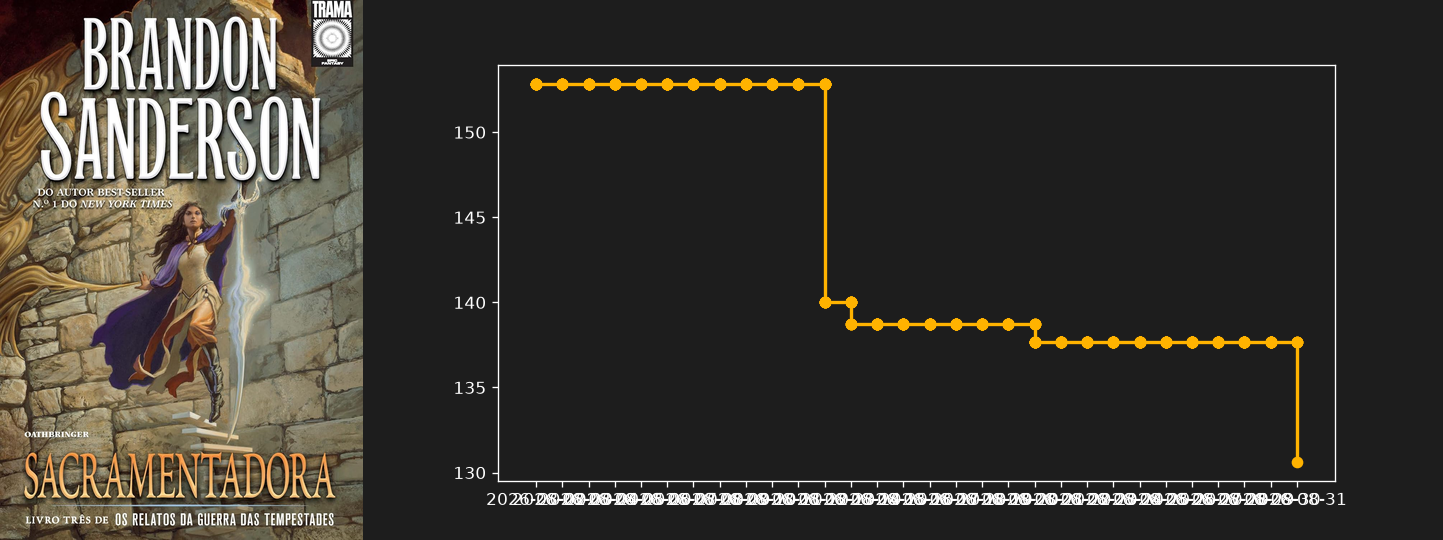
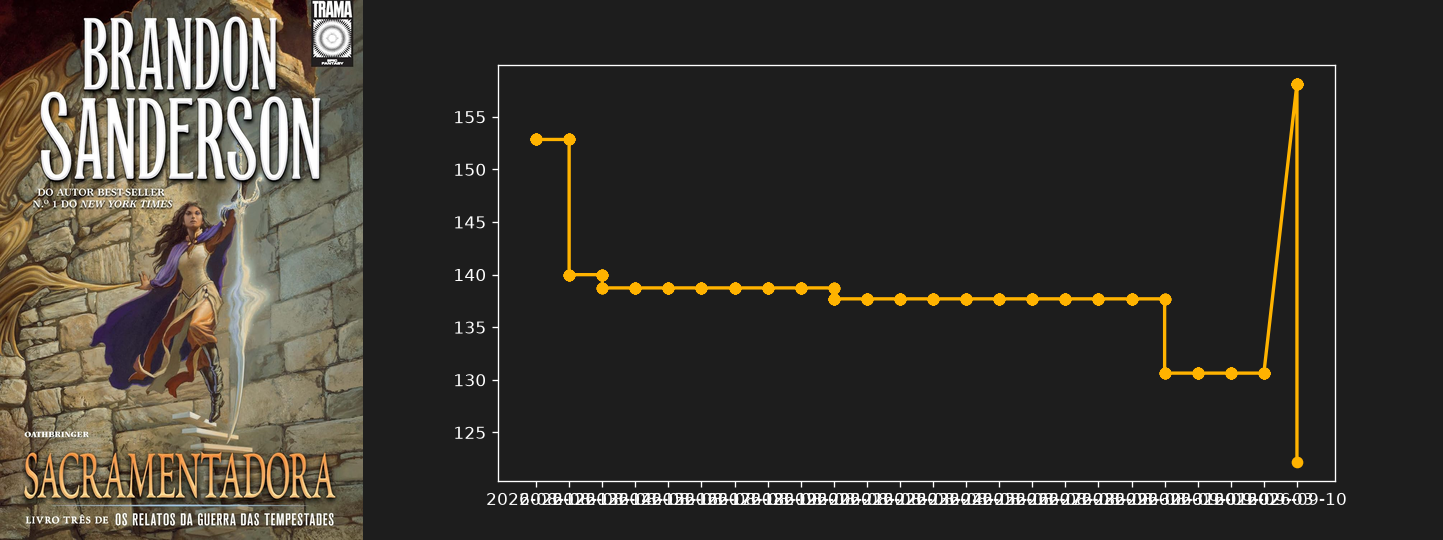
🤖 Bot Mac: Atualizando ofertas [skip ci]

diff --git a/index.html b/index.html
@@ -48,7 +48,7 @@
             <div class="flex flex-col mt-auto mb-5">
                 <div class="flex items-baseline gap-2">
                     <span class="text-2xl font-bold text-white tracking-tight">R$ 279,90</span>
-                    <span class="text-sm text-gray-500 line-through">R$ 234,20</span>
+                    <span class="text-sm text-gray-500 line-through">R$ 234,33</span>
                 </div>
             </div>
             <a href="https://link.amazon/B0bxqDHXJ" target="_blank" rel="nofollow noopener" class="w-full flex items-center justify-center gap-2 py-2.5 rounded-xl bg-white/5 hover:bg-bardo-gold hover:text-bardo-dark text-sm font-bold text-gray-200 transition-all">Comprar na Amazon</a>
@@ -68,7 +68,7 @@
             <div class="flex flex-col mt-auto mb-5">
                 <div class="flex items-baseline gap-2">
                     <span class="text-2xl font-bold text-white tracking-tight">R$ 60,58</span>
-                    <span class="text-sm text-gray-500 line-through">R$ 63,37</span>
+                    <span class="text-sm text-gray-500 line-through">R$ 63,36</span>
                 </div>
             </div>
             <a href="https://link.amazon/B05C027gt" target="_blank" rel="nofollow noopener" class="w-full flex items-center justify-center gap-2 py-2.5 rounded-xl bg-white/5 hover:bg-bardo-gold hover:text-bardo-dark text-sm font-bold text-gray-200 transition-all">Comprar na Amazon</a>
@@ -88,7 +88,7 @@
             <div class="flex flex-col mt-auto mb-5">
                 <div class="flex items-baseline gap-2">
                     <span class="text-2xl font-bold text-white tracking-tight">R$ 40,05</span>
-                    <span class="text-sm text-gray-500 line-through">R$ 46,88</span>
+                    <span class="text-sm text-gray-500 line-through">R$ 46,86</span>
                 </div>
             </div>
             <a href="https://link.amazon/B07BZ9Phr" target="_blank" rel="nofollow noopener" class="w-full flex items-center justify-center gap-2 py-2.5 rounded-xl bg-white/5 hover:bg-bardo-gold hover:text-bardo-dark text-sm font-bold text-gray-200 transition-all">Comprar na Amazon</a>
@@ -128,7 +128,7 @@
             <div class="flex flex-col mt-auto mb-5">
                 <div class="flex items-baseline gap-2">
                     <span class="text-2xl font-bold text-white tracking-tight">R$ 49,78</span>
-                    <span class="text-sm text-gray-500 line-through">R$ 47,49</span>
+                    <span class="text-sm text-gray-500 line-through">R$ 47,50</span>
                 </div>
             </div>
             <a href="https://link.amazon/B05Sr7Nr7" target="_blank" rel="nofollow noopener" class="w-full flex items-center justify-center gap-2 py-2.5 rounded-xl bg-white/5 hover:bg-bardo-gold hover:text-bardo-dark text-sm font-bold text-gray-200 transition-all">Comprar na Amazon</a>
@@ -148,7 +148,7 @@
             <div class="flex flex-col mt-auto mb-5">
                 <div class="flex items-baseline gap-2">
                     <span class="text-2xl font-bold text-white tracking-tight">R$ 140,33</span>
-                    <span class="text-sm text-gray-500 line-through">R$ 137,39</span>
+                    <span class="text-sm text-gray-500 line-through">R$ 137,40</span>
                 </div>
             </div>
             <a href="https://link.amazon/B04OFbHZF" target="_blank" rel="nofollow noopener" class="w-full flex items-center justify-center gap-2 py-2.5 rounded-xl bg-white/5 hover:bg-bardo-gold hover:text-bardo-dark text-sm font-bold text-gray-200 transition-all">Comprar na Amazon</a>
@@ -188,7 +188,7 @@
             <div class="flex flex-col mt-auto mb-5">
                 <div class="flex items-baseline gap-2">
                     <span class="text-2xl font-bold text-white tracking-tight">R$ 229,22</span>
-                    <span class="text-sm text-gray-500 line-through">R$ 225,65</span>
+                    <span class="text-sm text-gray-500 line-through">R$ 225,66</span>
                 </div>
             </div>
             <a href="https://link.amazon/B0cOS4omj" target="_blank" rel="nofollow noopener" class="w-full flex items-center justify-center gap-2 py-2.5 rounded-xl bg-white/5 hover:bg-bardo-gold hover:text-bardo-dark text-sm font-bold text-gray-200 transition-all">Comprar na Amazon</a>
@@ -208,7 +208,7 @@
             <div class="flex flex-col mt-auto mb-5">
                 <div class="flex items-baseline gap-2">
                     <span class="text-2xl font-bold text-white tracking-tight">R$ 59,36</span>
-                    <span class="text-sm text-gray-500 line-through">R$ 78,12</span>
+                    <span class="text-sm text-gray-500 line-through">R$ 78,07</span>
                 </div>
             </div>
             <a href="https://link.amazon/B0e2PzSTe" target="_blank" rel="nofollow noopener" class="w-full flex items-center justify-center gap-2 py-2.5 rounded-xl bg-white/5 hover:bg-bardo-gold hover:text-bardo-dark text-sm font-bold text-gray-200 transition-all">Comprar na Amazon</a>
@@ -228,7 +228,7 @@
             <div class="flex flex-col mt-auto mb-5">
                 <div class="flex items-baseline gap-2">
                     <span class="text-2xl font-bold text-white tracking-tight">R$ 82,94</span>
-                    <span class="text-sm text-gray-500 line-through">R$ 79,48</span>
+                    <span class="text-sm text-gray-500 line-through">R$ 79,49</span>
                 </div>
             </div>
             <a href="https://link.amazon/B01CIGwaZ" target="_blank" rel="nofollow noopener" class="w-full flex items-center justify-center gap-2 py-2.5 rounded-xl bg-white/5 hover:bg-bardo-gold hover:text-bardo-dark text-sm font-bold text-gray-200 transition-all">Comprar na Amazon</a>
@@ -248,7 +248,7 @@
             <div class="flex flex-col mt-auto mb-5">
                 <div class="flex items-baseline gap-2">
                     <span class="text-2xl font-bold text-white tracking-tight">R$ 426,83</span>
-                    <span class="text-sm text-gray-500 line-through">R$ 366,26</span>
+                    <span class="text-sm text-gray-500 line-through">R$ 366,42</span>
                 </div>
             </div>
             <a href="https://link.amazon/B0czAwuOp" target="_blank" rel="nofollow noopener" class="w-full flex items-center justify-center gap-2 py-2.5 rounded-xl bg-white/5 hover:bg-bardo-gold hover:text-bardo-dark text-sm font-bold text-gray-200 transition-all">Comprar na Amazon</a>
@@ -268,7 +268,7 @@
             <div class="flex flex-col mt-auto mb-5">
                 <div class="flex items-baseline gap-2">
                     <span class="text-2xl font-bold text-white tracking-tight">R$ 39,80</span>
-                    <span class="text-sm text-gray-500 line-through">R$ 39,68</span>
+                    <span class="text-sm text-gray-500 line-through">R$ 39,69</span>
                 </div>
             </div>
             <a href="https://link.amazon/B0fKkmi1R" target="_blank" rel="nofollow noopener" class="w-full flex items-center justify-center gap-2 py-2.5 rounded-xl bg-white/5 hover:bg-bardo-gold hover:text-bardo-dark text-sm font-bold text-gray-200 transition-all">Comprar na Amazon</a>
@@ -288,7 +288,7 @@
             <div class="flex flex-col mt-auto mb-5">
                 <div class="flex items-baseline gap-2">
                     <span class="text-2xl font-bold text-white tracking-tight">R$ 73,90</span>
-                    <span class="text-sm text-gray-500 line-through">R$ 68,64</span>
+                    <span class="text-sm text-gray-500 line-through">R$ 68,65</span>
                 </div>
             </div>
             <a href="https://link.amazon/B0bJ5jTSU" target="_blank" rel="nofollow noopener" class="w-full flex items-center justify-center gap-2 py-2.5 rounded-xl bg-white/5 hover:bg-bardo-gold hover:text-bardo-dark text-sm font-bold text-gray-200 transition-all">Comprar na Amazon</a>
@@ -308,7 +308,7 @@
             <div class="flex flex-col mt-auto mb-5">
                 <div class="flex items-baseline gap-2">
                     <span class="text-2xl font-bold text-white tracking-tight">R$ 56,90</span>
-                    <span class="text-sm text-gray-500 line-through">R$ 50,59</span>
+                    <span class="text-sm text-gray-500 line-through">R$ 50,60</span>
                 </div>
             </div>
             <a href="https://link.amazon/B075ASsRo" target="_blank" rel="nofollow noopener" class="w-full flex items-center justify-center gap-2 py-2.5 rounded-xl bg-white/5 hover:bg-bardo-gold hover:text-bardo-dark text-sm font-bold text-gray-200 transition-all">Comprar na Amazon</a>
@@ -368,7 +368,7 @@
             <div class="flex flex-col mt-auto mb-5">
                 <div class="flex items-baseline gap-2">
                     <span class="text-2xl font-bold text-white tracking-tight">R$ 126,03</span>
-                    <span class="text-sm text-gray-500 line-through">R$ 95,55</span>
+                    <span class="text-sm text-gray-500 line-through">R$ 95,63</span>
                 </div>
             </div>
             <a href="https://link.amazon/B0g8PJdyP" target="_blank" rel="nofollow noopener" class="w-full flex items-center justify-center gap-2 py-2.5 rounded-xl bg-white/5 hover:bg-bardo-gold hover:text-bardo-dark text-sm font-bold text-gray-200 transition-all">Comprar na Amazon</a>
@@ -395,7 +395,7 @@
         </div>
     </article>
     <article class="relative flex flex-col bg-surface rounded-2xl border border-white/5 overflow-hidden hover:border-bardo-gold/40 transition-all duration-300 group shadow-lg">
-        
+        <div class="absolute top-3 left-3 z-10"><span class="px-2.5 py-1 text-[11px] font-bold uppercase tracking-wider text-emerald-400 bg-emerald-500/10 border border-emerald-500/20 rounded-full backdrop-blur-md shadow-lg">Abaixo da Média</span></div>
         <!-- Vitrine com Efeito Hover Swap -->
         <div class="relative h-64 w-full bg-gradient-to-b from-white/[0.03] to-transparent border-b border-white/5 overflow-hidden">
             <!-- Imagem 1: Capa (Soma ao Hover) -->
@@ -407,8 +407,8 @@
             <h3 class="text-base font-semibold text-gray-100 leading-snug line-clamp-2 mb-4 group-hover:text-bardo-gold transition-colors">Sacramentadora</h3>
             <div class="flex flex-col mt-auto mb-5">
                 <div class="flex items-baseline gap-2">
-                    <span class="text-2xl font-bold text-white tracking-tight">R$ 158,15</span>
-                    <span class="text-sm text-gray-500 line-through">R$ 138,69</span>
+                    <span class="text-2xl font-bold text-white tracking-tight">R$ 122,22</span>
+                    <span class="text-sm text-gray-500 line-through">R$ 138,64</span>
                 </div>
             </div>
             <a href="https://link.amazon/B0cBFS3o1" target="_blank" rel="nofollow noopener" class="w-full flex items-center justify-center gap-2 py-2.5 rounded-xl bg-white/5 hover:bg-bardo-gold hover:text-bardo-dark text-sm font-bold text-gray-200 transition-all">Comprar na Amazon</a>
@@ -428,7 +428,7 @@
             <div class="flex flex-col mt-auto mb-5">
                 <div class="flex items-baseline gap-2">
                     <span class="text-2xl font-bold text-white tracking-tight">R$ 142,39</span>
-                    <span class="text-sm text-gray-500 line-through">R$ 146,54</span>
+                    <span class="text-sm text-gray-500 line-through">R$ 146,53</span>
                 </div>
             </div>
             <a href="https://link.amazon/B0f81O992" target="_blank" rel="nofollow noopener" class="w-full flex items-center justify-center gap-2 py-2.5 rounded-xl bg-white/5 hover:bg-bardo-gold hover:text-bardo-dark text-sm font-bold text-gray-200 transition-all">Comprar na Amazon</a>
@@ -588,7 +588,7 @@
             <div class="flex flex-col mt-auto mb-5">
                 <div class="flex items-baseline gap-2">
                     <span class="text-2xl font-bold text-white tracking-tight">R$ 284,84</span>
-                    <span class="text-sm text-gray-500 line-through">R$ 283,70</span>
+                    <span class="text-sm text-gray-500 line-through">R$ 283,71</span>
                 </div>
             </div>
             <a href="https://link.amazon/B046QvncM" target="_blank" rel="nofollow noopener" class="w-full flex items-center justify-center gap-2 py-2.5 rounded-xl bg-white/5 hover:bg-bardo-gold hover:text-bardo-dark text-sm font-bold text-gray-200 transition-all">Comprar na Amazon</a>
@@ -608,7 +608,7 @@
             <div class="flex flex-col mt-auto mb-5">
                 <div class="flex items-baseline gap-2">
                     <span class="text-2xl font-bold text-white tracking-tight">R$ 162,10</span>
-                    <span class="text-sm text-gray-500 line-through">R$ 190,33</span>
+                    <span class="text-sm text-gray-500 line-through">R$ 190,22</span>
                 </div>
             </div>
             <a href="https://link.amazon/B037mPoB1" target="_blank" rel="nofollow noopener" class="w-full flex items-center justify-center gap-2 py-2.5 rounded-xl bg-white/5 hover:bg-bardo-gold hover:text-bardo-dark text-sm font-bold text-gray-200 transition-all">Comprar na Amazon</a>
@@ -628,7 +628,7 @@
             <div class="flex flex-col mt-auto mb-5">
                 <div class="flex items-baseline gap-2">
                     <span class="text-2xl font-bold text-white tracking-tight">R$ 32,41</span>
-                    <span class="text-sm text-gray-500 line-through">R$ 37,11</span>
+                    <span class="text-sm text-gray-500 line-through">R$ 37,09</span>
                 </div>
             </div>
             <a href="https://link.amazon/B0ja4Ste6" target="_blank" rel="nofollow noopener" class="w-full flex items-center justify-center gap-2 py-2.5 rounded-xl bg-white/5 hover:bg-bardo-gold hover:text-bardo-dark text-sm font-bold text-gray-200 transition-all">Comprar na Amazon</a>
@@ -648,7 +648,7 @@
             <div class="flex flex-col mt-auto mb-5">
                 <div class="flex items-baseline gap-2">
                     <span class="text-2xl font-bold text-white tracking-tight">R$ 48,99</span>
-                    <span class="text-sm text-gray-500 line-through">R$ 48,85</span>
+                    <span class="text-sm text-gray-500 line-through">R$ 48,86</span>
                 </div>
             </div>
             <a href="https://link.amazon/B0cIs9iDO" target="_blank" rel="nofollow noopener" class="w-full flex items-center justify-center gap-2 py-2.5 rounded-xl bg-white/5 hover:bg-bardo-gold hover:text-bardo-dark text-sm font-bold text-gray-200 transition-all">Comprar na Amazon</a>
@@ -668,7 +668,7 @@
             <div class="flex flex-col mt-auto mb-5">
                 <div class="flex items-baseline gap-2">
                     <span class="text-2xl font-bold text-white tracking-tight">R$ 52,21</span>
-                    <span class="text-sm text-gray-500 line-through">R$ 56,97</span>
+                    <span class="text-sm text-gray-500 line-through">R$ 56,95</span>
                 </div>
             </div>
             <a href="https://link.amazon/B0gViTEpL" target="_blank" rel="nofollow noopener" class="w-full flex items-center justify-center gap-2 py-2.5 rounded-xl bg-white/5 hover:bg-bardo-gold hover:text-bardo-dark text-sm font-bold text-gray-200 transition-all">Comprar na Amazon</a>
@@ -688,7 +688,7 @@
             <div class="flex flex-col mt-auto mb-5">
                 <div class="flex items-baseline gap-2">
                     <span class="text-2xl font-bold text-white tracking-tight">R$ 46,27</span>
-                    <span class="text-sm text-gray-500 line-through">R$ 48,33</span>
+                    <span class="text-sm text-gray-500 line-through">R$ 48,32</span>
                 </div>
             </div>
             <a href="https://link.amazon/B08nADndv" target="_blank" rel="nofollow noopener" class="w-full flex items-center justify-center gap-2 py-2.5 rounded-xl bg-white/5 hover:bg-bardo-gold hover:text-bardo-dark text-sm font-bold text-gray-200 transition-all">Comprar na Amazon</a>
@@ -728,7 +728,7 @@
             <div class="flex flex-col mt-auto mb-5">
                 <div class="flex items-baseline gap-2">
                     <span class="text-2xl font-bold text-white tracking-tight">R$ 63,90</span>
-                    <span class="text-sm text-gray-500 line-through">R$ 65,30</span>
+                    <span class="text-sm text-gray-500 line-through">R$ 65,29</span>
                 </div>
             </div>
             <a href="https://link.amazon/B0gpt2mie" target="_blank" rel="nofollow noopener" class="w-full flex items-center justify-center gap-2 py-2.5 rounded-xl bg-white/5 hover:bg-bardo-gold hover:text-bardo-dark text-sm font-bold text-gray-200 transition-all">Comprar na Amazon</a>
@@ -748,7 +748,7 @@
             <div class="flex flex-col mt-auto mb-5">
                 <div class="flex items-baseline gap-2">
                     <span class="text-2xl font-bold text-white tracking-tight">R$ 60,04</span>
-                    <span class="text-sm text-gray-500 line-through">R$ 67,33</span>
+                    <span class="text-sm text-gray-500 line-through">R$ 67,30</span>
                 </div>
             </div>
             <a href="https://link.amazon/B053gl2cU" target="_blank" rel="nofollow noopener" class="w-full flex items-center justify-center gap-2 py-2.5 rounded-xl bg-white/5 hover:bg-bardo-gold hover:text-bardo-dark text-sm font-bold text-gray-200 transition-all">Comprar na Amazon</a>
@@ -828,7 +828,7 @@
             <div class="flex flex-col mt-auto mb-5">
                 <div class="flex items-baseline gap-2">
                     <span class="text-2xl font-bold text-white tracking-tight">R$ 54,99</span>
-                    <span class="text-sm text-gray-500 line-through">R$ 55,80</span>
+                    <span class="text-sm text-gray-500 line-through">R$ 55,79</span>
                 </div>
             </div>
             <a href="https://link.amazon/B0hzsQMzC" target="_blank" rel="nofollow noopener" class="w-full flex items-center justify-center gap-2 py-2.5 rounded-xl bg-white/5 hover:bg-bardo-gold hover:text-bardo-dark text-sm font-bold text-gray-200 transition-all">Comprar na Amazon</a>
@@ -848,7 +848,7 @@
             <div class="flex flex-col mt-auto mb-5">
                 <div class="flex items-baseline gap-2">
                     <span class="text-2xl font-bold text-white tracking-tight">R$ 316,45</span>
-                    <span class="text-sm text-gray-500 line-through">R$ 443,64</span>
+                    <span class="text-sm text-gray-500 line-through">R$ 443,12</span>
                 </div>
             </div>
             <a href="https://link.amazon/B04zvHdbV" target="_blank" rel="nofollow noopener" class="w-full flex items-center justify-center gap-2 py-2.5 rounded-xl bg-white/5 hover:bg-bardo-gold hover:text-bardo-dark text-sm font-bold text-gray-200 transition-all">Comprar na Amazon</a>
@@ -868,7 +868,7 @@
             <div class="flex flex-col mt-auto mb-5">
                 <div class="flex items-baseline gap-2">
                     <span class="text-2xl font-bold text-white tracking-tight">R$ 84,50</span>
-                    <span class="text-sm text-gray-500 line-through">R$ 87,04</span>
+                    <span class="text-sm text-gray-500 line-through">R$ 87,03</span>
                 </div>
             </div>
             <a href="https://link.amazon/B0fzjvtp7" target="_blank" rel="nofollow noopener" class="w-full flex items-center justify-center gap-2 py-2.5 rounded-xl bg-white/5 hover:bg-bardo-gold hover:text-bardo-dark text-sm font-bold text-gray-200 transition-all">Comprar na Amazon</a>
@@ -928,7 +928,7 @@
             <div class="flex flex-col mt-auto mb-5">
                 <div class="flex items-baseline gap-2">
                     <span class="text-2xl font-bold text-white tracking-tight">R$ 62,60</span>
-                    <span class="text-sm text-gray-500 line-through">R$ 65,45</span>
+                    <span class="text-sm text-gray-500 line-through">R$ 65,44</span>
                 </div>
             </div>
             <a href="https://link.amazon/B0jllWIXN" target="_blank" rel="nofollow noopener" class="w-full flex items-center justify-center gap-2 py-2.5 rounded-xl bg-white/5 hover:bg-bardo-gold hover:text-bardo-dark text-sm font-bold text-gray-200 transition-all">Comprar na Amazon</a>
@@ -988,7 +988,7 @@
             <div class="flex flex-col mt-auto mb-5">
                 <div class="flex items-baseline gap-2">
                     <span class="text-2xl font-bold text-white tracking-tight">R$ 314,60</span>
-                    <span class="text-sm text-gray-500 line-through">R$ 317,21</span>
+                    <span class="text-sm text-gray-500 line-through">R$ 317,20</span>
                 </div>
             </div>
             <a href="https://link.amazon/B02mXXqIa" target="_blank" rel="nofollow noopener" class="w-full flex items-center justify-center gap-2 py-2.5 rounded-xl bg-white/5 hover:bg-bardo-gold hover:text-bardo-dark text-sm font-bold text-gray-200 transition-all">Comprar na Amazon</a>
@@ -1008,7 +1008,7 @@
             <div class="flex flex-col mt-auto mb-5">
                 <div class="flex items-baseline gap-2">
                     <span class="text-2xl font-bold text-white tracking-tight">R$ 223,00</span>
-                    <span class="text-sm text-gray-500 line-through">R$ 230,18</span>
+                    <span class="text-sm text-gray-500 line-through">R$ 230,15</span>
                 </div>
             </div>
             <a href="https://link.amazon/B01sIcUyP" target="_blank" rel="nofollow noopener" class="w-full flex items-center justify-center gap-2 py-2.5 rounded-xl bg-white/5 hover:bg-bardo-gold hover:text-bardo-dark text-sm font-bold text-gray-200 transition-all">Comprar na Amazon</a>
